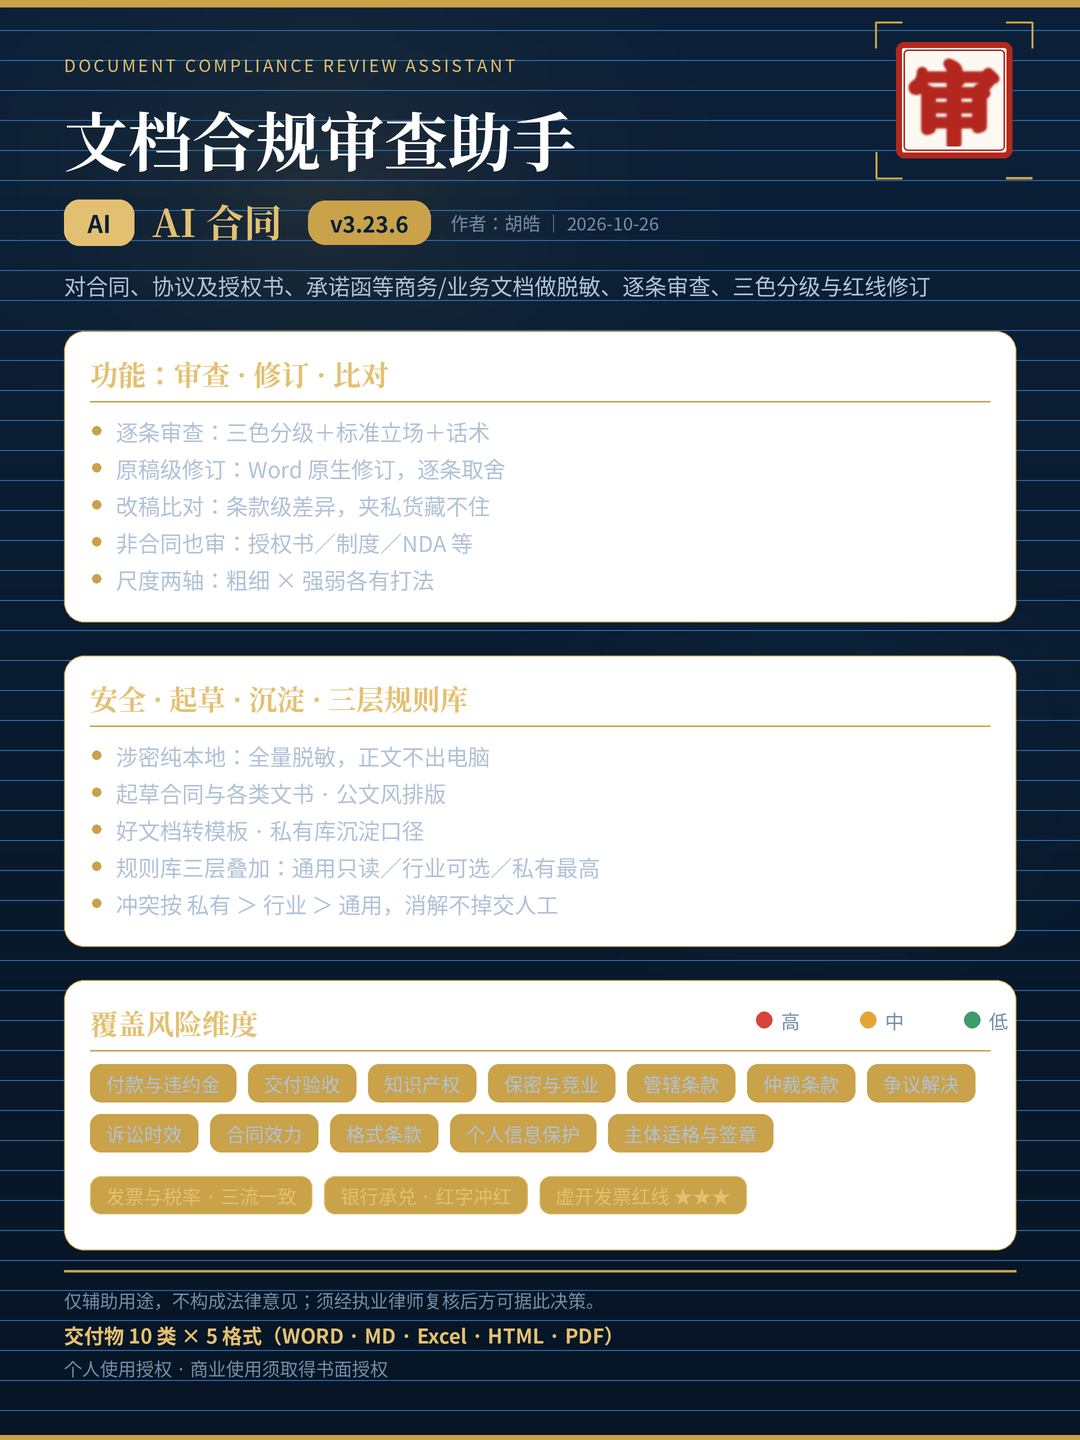
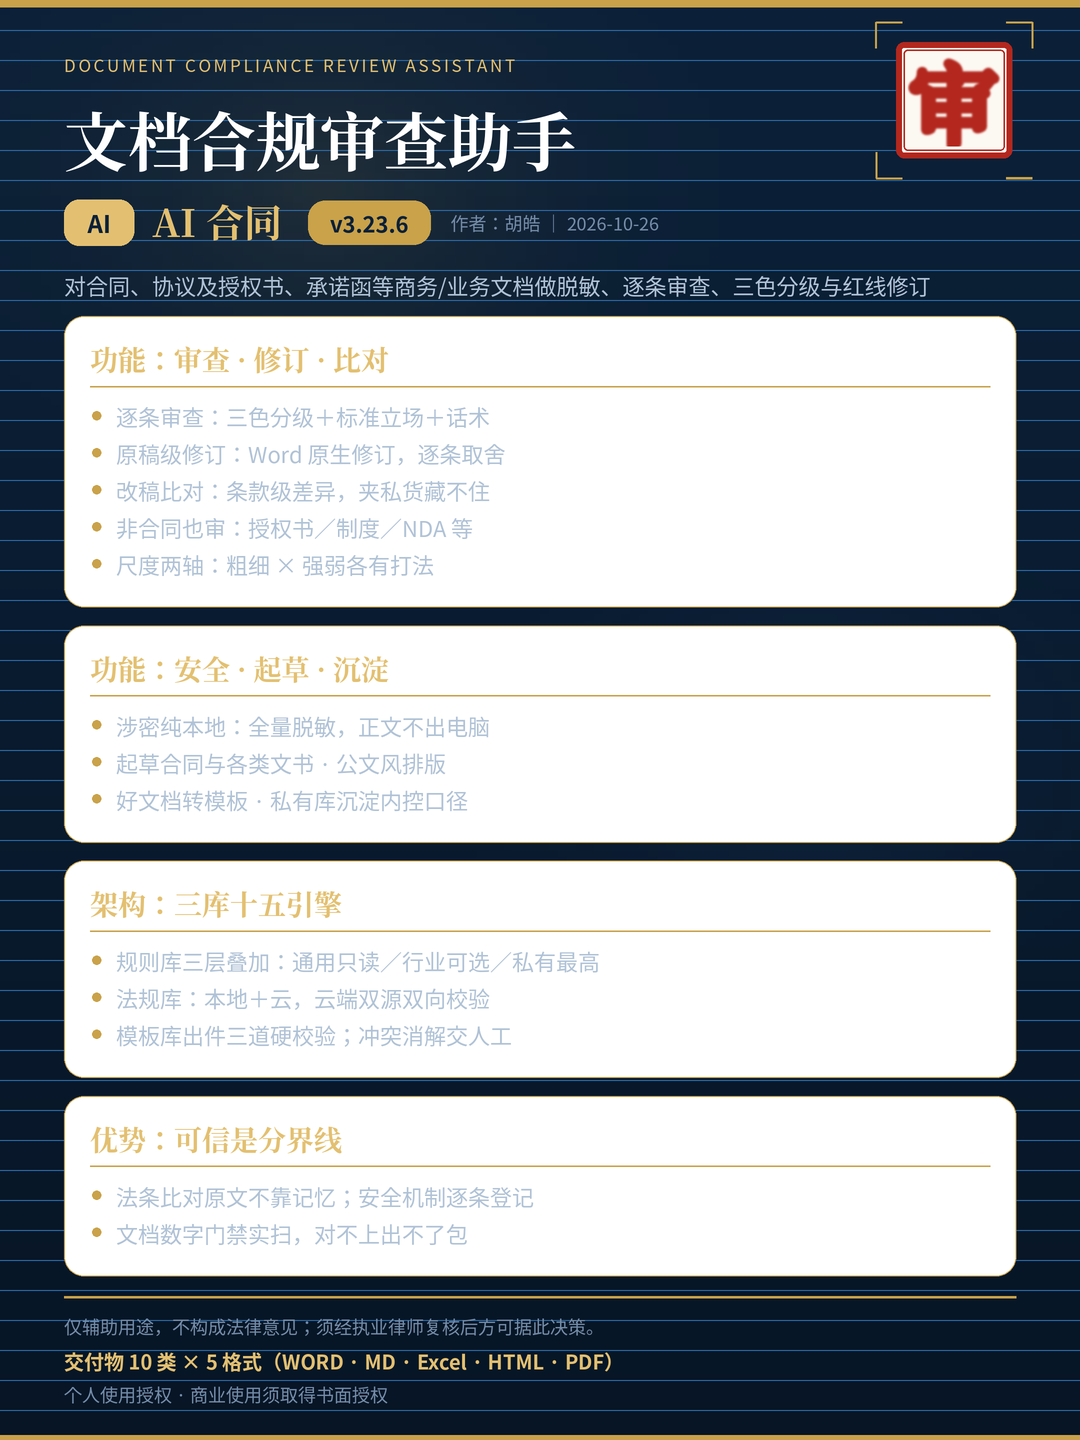
skill-card 移除风险维度 chips 区，腾版收入推介文架构＋优势两块；三色风险点签名迁至首块标题行

Changed region(s): [[0.0611, 0.2188, 0.9472, 1.0]]

diff --git a/maint/tools/make-card.py b/maint/tools/make-card.py
@@ -86,12 +86,19 @@ BLOCKS = [
         "非合同也审：授权书／制度／NDA 等",
         "尺度两轴：粗细 × 强弱各有打法",
     ]),
-    ("安全 · 起草 · 沉淀 · 三层规则库", [
+    ("功能：安全 · 起草 · 沉淀", [
         "涉密纯本地：全量脱敏，正文不出电脑",
         "起草合同与各类文书 · 公文风排版",
-        "好文档转模板 · 私有库沉淀口径",
+        "好文档转模板 · 私有库沉淀内控口径",
+    ]),
+    ("架构：三库十五引擎", [
         "规则库三层叠加：通用只读／行业可选／私有最高",
-        "冲突按 私有 ＞ 行业 ＞ 通用，消解不掉交人工",
+        "法规库：本地＋云，云端双源双向校验",
+        "模板库出件三道硬校验；冲突消解交人工",
+    ]),
+    ("优势：可信是分界线", [
+        "法条比对原文不靠记忆；安全机制逐条登记",
+        "文档数字门禁实扫，对不上出不了包",
     ]),
 ]
 
@@ -426,39 +433,22 @@ def render_card(version, f_serif, f_sans, f_sansb, f_seal, ss=2, verbose=False):
 
     # (4) 一句话定位 22px（单行；超宽会在审计里以粘连/重叠形式暴露）
     f_tag = font(f_sans, 22 * U)
-    put((PAD * U, ls_y(sub_row_bottom + 30 * U, f_tag)), TAGLINE, f_tag, FG2, "ls")
+    tag_y = ls_y(sub_row_bottom + 30 * U, f_tag)
+    put((PAD * U, tag_y), TAGLINE, f_tag, FG2, "ls")
     y0 = sub_row_bottom + 30 * U + f_tag.size                    # 内容区起点
 
     # ============ 先量：各段高度 ============
     f_h = font(f_serif, 28 * U)        # 区块标题
     f_body = font(f_sans, 22 * U)      # 正文
-    f_chip = font(f_sans, 19 * U)      # chips
     LH, HEAD, BOTP = 37 * U, 84 * U, 22 * U
-    PITCH = 50 * U                     # chips 行距
-
-    def lay_chips(items, max_w):
-        sizes = [(c, d.textlength(c, font=f_chip) + 32 * U) for c in items]
-        rows, cur, cw = [], [], 0.0
-        for c, t in sizes:
-            if cw + t > max_w and cur:
-                rows.append((cur, cw))
-                cur, cw = [], 0.0
-            cur.append((c, t))
-            cw += t + 12 * U
-        if cur:
-            rows.append((cur, cw))
-        return rows
 
     def block_h(items):
         n = sum(len(wrap_text(d, it, f_body, CW * U - 92 * U)) for it in items)
         return HEAD + n * LH + BOTP
 
-    rows_dim = lay_chips(DIMENSIONS, CW * U - 8 * U)
-    rows_tax = lay_chips(TAX_CHIPS, CW * U - 8 * U)
-    chip_h = HEAD + len(rows_dim) * PITCH + 12 * U + len(rows_tax) * PITCH + 24 * U
-    hs = [block_h(BLOCKS[i][1]) for i in range(len(BLOCKS))] + [chip_h]
+    hs = [block_h(BLOCKS[i][1]) for i in range(len(BLOCKS))]
 
-    FOOT_BOX = 152 * U                 # 页脚占用的底部高度（固定，底部锚定）
+    FOOT_BOX = 126 * U                 # 页脚占用的底部高度（固定，底部锚定）
     fy = H - FOOT_BOX - 18 * U
     avail = (fy - 20 * U) - y0
     gap = (avail - sum(hs)) / max(1, len(hs))
@@ -485,39 +475,12 @@ def render_card(version, f_serif, f_sans, f_sansb, f_seal, ss=2, verbose=False):
                 yy += LH
         return ytop + bh
 
-    def draw_chips(ytop):
-        d.rounded_rectangle([PAD * U, ytop, W - PAD * U, ytop + chip_h], radius=20 * U,
-                            fill=(255, 255, 255, 10), outline=GOLD + (46,), width=max(1, int(1.4 * S)))
-        put((PAD * U + 26 * U, ytop + 22 * U), "覆盖风险维度", f_h, GOLD_LT, "la")
-        # 三色风险点：与"风险维度"标题同排右端（原在页脚，被交付物行压着）
-        draw_risk_dots(d, W - PAD * U - 148 * U, ytop + 40 * U, FG3 + (255,), f_sans, U,
-                       reg=lambda x, y, s, f, an: AUD.add(x, y, s, f, an))
-        d.rectangle([PAD * U + 26 * U, ytop + 70 * U, W - PAD * U - 26 * U, ytop + 71 * U],
-                    fill=GOLD + (60,))
-        cyy = ytop + HEAD
-        for row, _rw in rows_dim:
-            cx = PAD * U + 26 * U
-            for c, t in row:
-                d.rounded_rectangle([cx, cyy, cx + t, cyy + 38 * U], radius=11 * U,
-                                    fill=GOLD + (34,), outline=GOLD + (70,), width=max(1, int(1.2 * S)))
-                put((cx + t / 2, cyy + 19 * U), c, f_chip, FG2, "mm")
-                cx += t + 12 * U
-            cyy += PITCH
-        cyy += 12 * U
-        for row, _rw in rows_tax:                       # K 组：金色高亮，与通用维度区分
-            cx = PAD * U + 26 * U
-            for c, t in row:
-                d.rounded_rectangle([cx, cyy, cx + t, cyy + 38 * U], radius=11 * U,
-                                    fill=GOLD + (58,), outline=GOLD_LT + (150,), width=max(1, int(1.4 * S)))
-                put((cx + t / 2, cyy + 19 * U), c, f_chip, GOLD_LT, "mm")
-                cx += t + 12 * U
-            cyy += PITCH
-        return ytop + chip_h
-
     y = y0 + gap
+    # 三色风险点签名：首块标题行右端（chips 区已移除，签名迁至此处）
+    draw_risk_dots(d, W - PAD * U - 200 * U, y + 36 * U, FG3 + (255,), f_sans, U,
+                   reg=lambda x, y2, sa, fa, an: AUD.add(x, y2, sa, fa, an))
     for title, items in BLOCKS:
         y = draw_block(y, title, items) + gap
-    y = draw_chips(y) + gap
 
     # ============ 页脚（底部锚定，行间按墨迹盒推进） ============
     d.rectangle([PAD * U, fy, W - PAD * U, fy + 2 * U], fill=GOLD + (70,))
